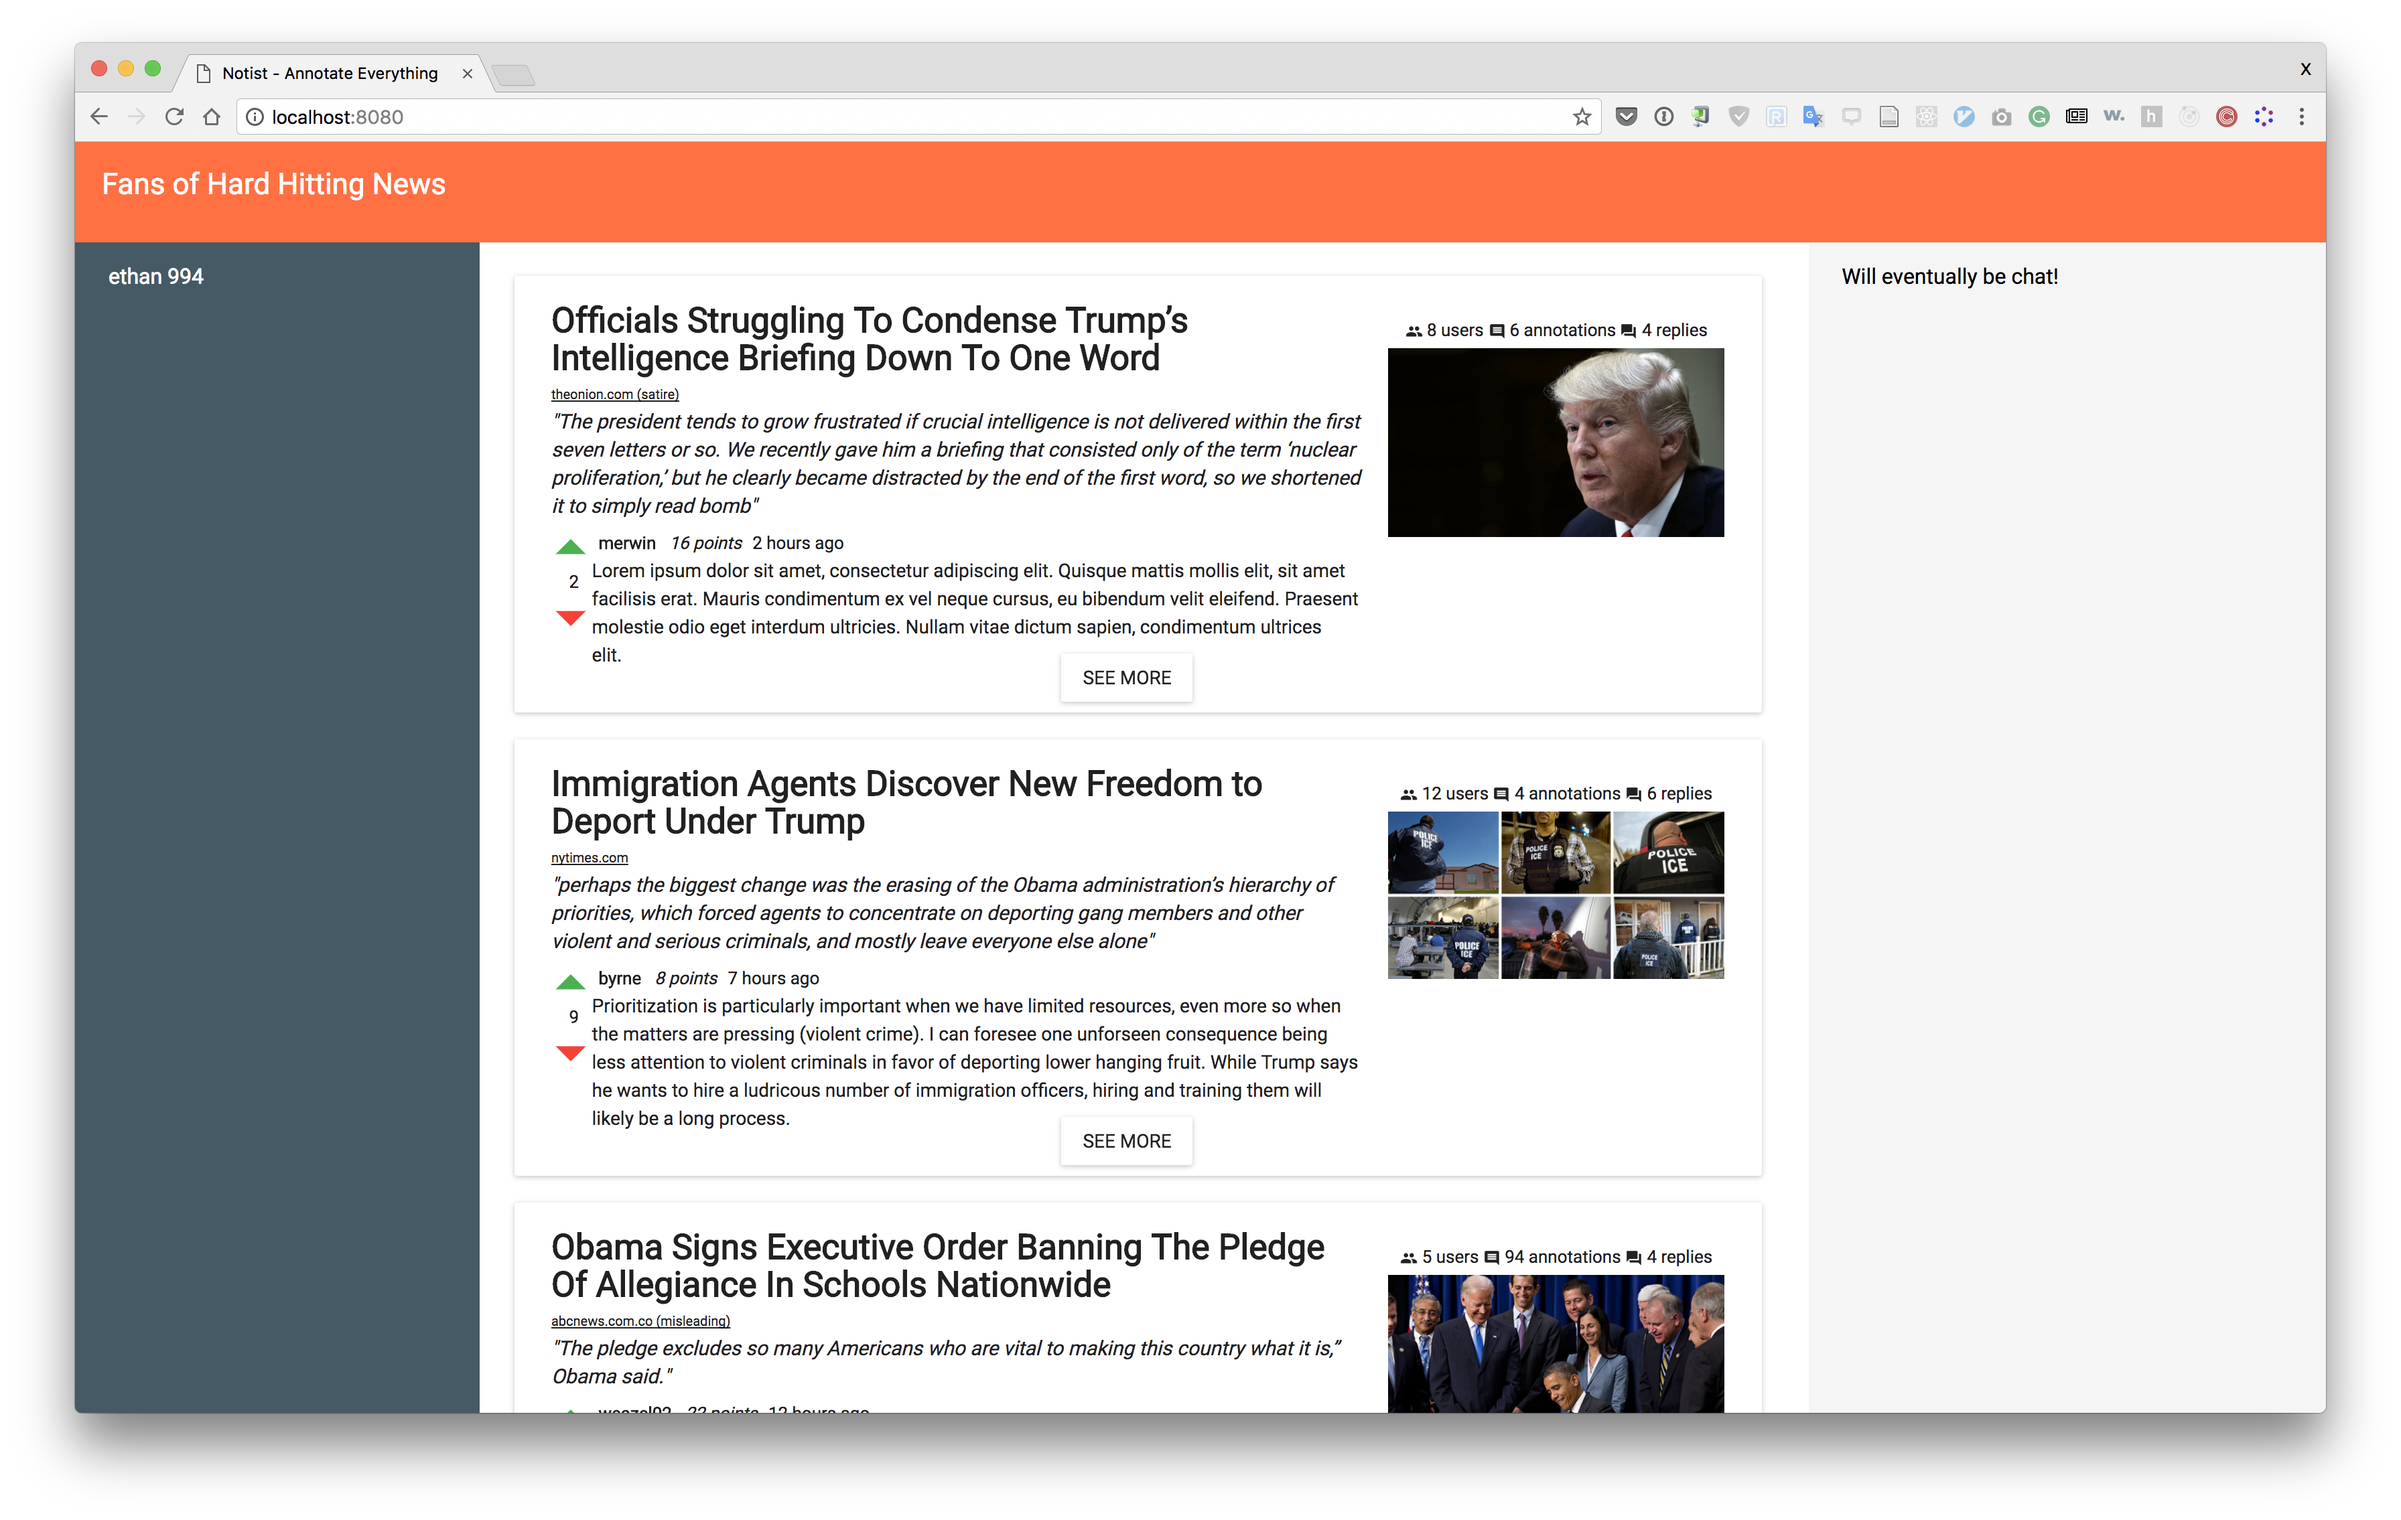
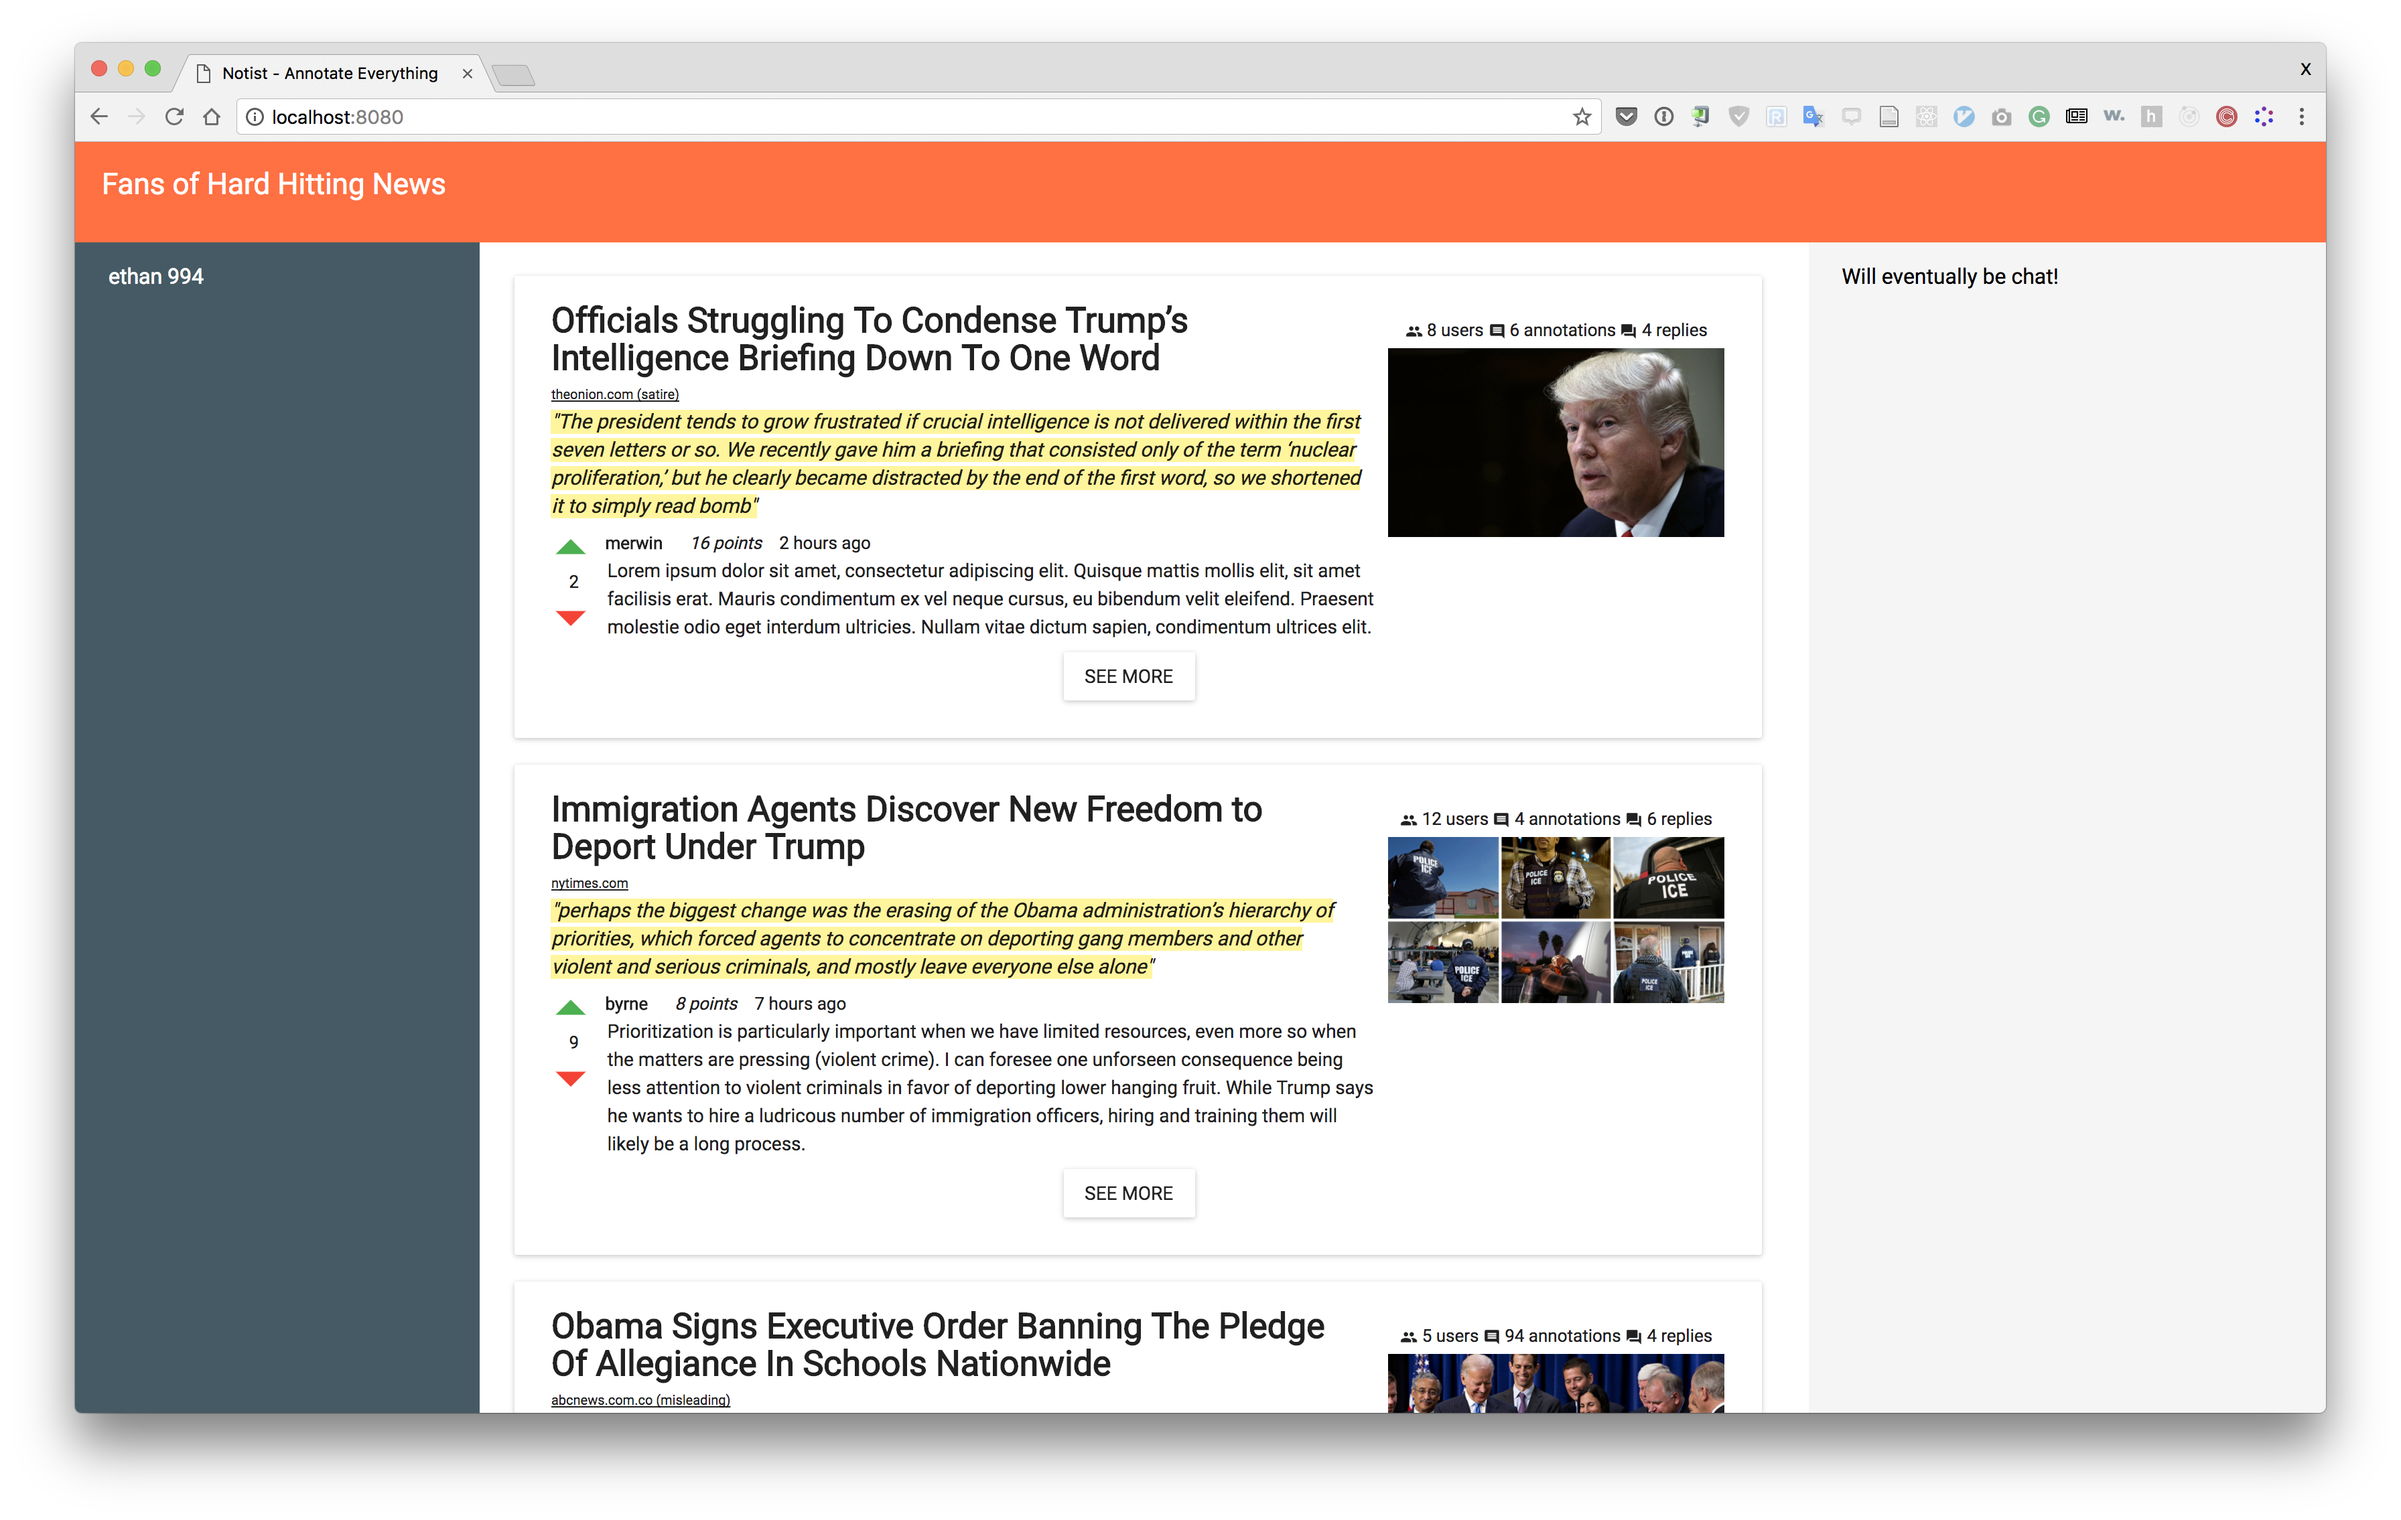
highlight annotated text

Changed region(s): [[0.2188, 0.4934, 0.7188, 0.9559], [0.2188, 0.2467, 0.5625, 0.4626]]

diff --git a/src/components/ArticleCard.js b/src/components/ArticleCard.js
@@ -1,9 +1,6 @@
 import React, {Component} from 'react';
 import {Card, CardActions, CardHeader, CardText, CardMedia, CardTitle} from 'material-ui/Card';
-import {
-  yellow200,
-} from 'material-ui/styles/colors';
-// import FlatButton from 'material-ui/FlatButton';
+import { yellow200 } from 'material-ui/styles/colors';
 import {MdComment, MdCreate, MdForum, MdSettings, MdGroup} from 'react-icons/lib/md';
 import RaisedButton from 'material-ui/RaisedButton';
 import Upvote from './Upvote';
@@ -17,7 +14,6 @@ const styles = {
   annotationTextStyle: {
     position: 'relative',
     fontSize: 14,
-    // clear: 'both',
     left: "2%",
   },
 
@@ -32,17 +28,14 @@ const styles = {
     fontStyle: 'italic',
     fontWeight: 100,
     backgroundColor: yellow200,
-    // fontFamily: "Roboto",
-    // fontWeight: 400,
-    // font: "Roboto Italic",
   },
 
   cardHeaderStyle: {
     position: 'relative',
+    float: 'left',
     maxWidth: '65%',
     paddingLeft: '3%',
     top: 20,
-    float: 'left',
   },
 
   domainTextStyle: {
